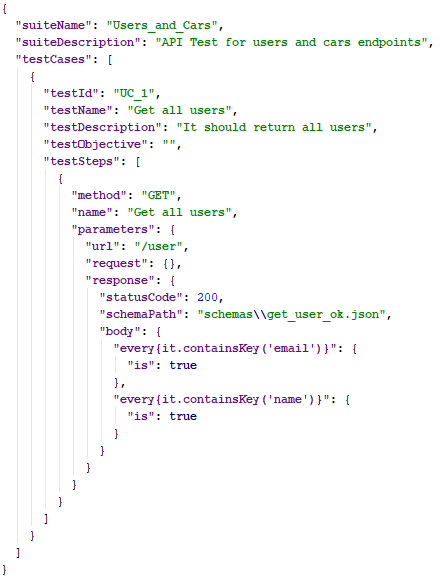
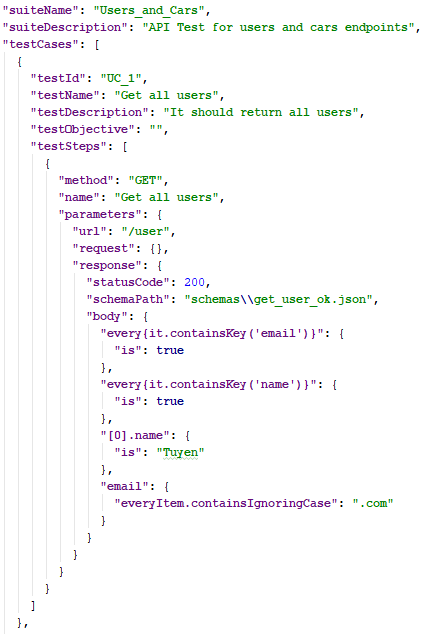
Update test example test cases

diff --git a/src/test/java/TestExecution/APIExecution.java b/src/test/java/TestExecution/APIExecution.java
@@ -3,6 +3,7 @@ package TestExecution;
 import TestEntity.TestStep;
 import Utils.HashMapHandler;
 import Utils.UtilityFunctions;
+import Utils.matcher_extension.CaseInsensitiveStringMatcher;
 import config.Config;
 import io.restassured.RestAssured;
 import io.restassured.filter.log.RequestLoggingFilter;
@@ -202,7 +203,8 @@ public class APIExecution {
                         // This auto find file from class path to below
                         // We can specify the directory by data\\api\\ + entry.getValue()
                         validatableRes.body(JsonSchemaValidator.matchesJsonSchemaInClasspath((String) entry.getValue()));
-                        passTexts.add("Ensure the response match with the schema at " + entry.getValue());                    } catch (AssertionError e) {
+                        passTexts.add("Ensure the response match with the schema at " + entry.getValue());
+                    } catch (AssertionError e) {
                         errors.add(e);
                     }
                     break;
@@ -214,7 +216,7 @@ public class APIExecution {
                             for (Object matcher : jsonMatchers.keySet()) {
                                 Matcher<?> refinedMatcher = buildMatcherPattern((String) matcher, jsonMatchers.get(matcher));
                                 validatableRes.body((String) fieldValue, refinedMatcher);
-                                passTexts.add("Ensure the field [" + fieldValue + "] - " + refinedMatcher.toString().replace("<","").replace(">","") + ".");
+                                passTexts.add("Ensure the field [" + fieldValue + "] - " + refinedMatcher.toString().replace("<", "").replace(">", "") + ".");
                             }
                         } catch (AssertionError e) {
                             errors.add(e);
@@ -232,8 +234,8 @@ public class APIExecution {
 
         // handle for serial number of matcher pattern
         matcherPattern = matcherPattern.indexOf("[") == 0 && matcherPattern.indexOf(']') > 0
-                ?   matcherPattern.substring(matcherPattern.indexOf(']') + 1).trim()
-                :   matcherPattern;
+                ? matcherPattern.substring(matcherPattern.indexOf(']') + 1).trim()
+                : matcherPattern;
         String[] funcParts = matcherPattern.split("\\.");
         if (valueMatcher instanceof Long) {
             int val = ((Long) valueMatcher).intValue();
@@ -262,8 +264,7 @@ public class APIExecution {
     private Matcher<?> createMatcher(String funcName, Object value) {
         switch (funcName) {
             case "containsIgnoringCase":
-                // Write extension for string
-                return null;
+                return CaseInsensitiveStringMatcher.containsIgnoringCase(value.toString());
             case "equalTo":
                 if (value instanceof Double) {
                     return Matchers.equalTo(Float.valueOf(value.toString()));
@@ -292,8 +293,7 @@ public class APIExecution {
                 }
                 return Matchers.greaterThanOrEqualTo((Long) value);
             case "greaterThanOrEqualToIgnoringCase":
-                // Write extension for string
-                return null;
+                return CaseInsensitiveStringMatcher.greaterThanOrEqualToIgnoringCase((String) value);
             case "hasKey":
                 return Matchers.hasKey(value);
             case "hasItem":
@@ -321,8 +321,7 @@ public class APIExecution {
                 }
                 return Matchers.lessThanOrEqualTo((Long) value);
             case "lessThanOrEqualToIgnoringCase":
-                // Write extension for string
-                return null;
+                return CaseInsensitiveStringMatcher.lessThanOrEqualToIgnoringCase((String) value);
             case "not":
                 return Matchers.not((Matcher<?>) value);
         }

diff --git a/src/test/java/Utils/matcher_extension/CaseInsensitiveStringMatcher.java b/src/test/java/Utils/matcher_extension/CaseInsensitiveStringMatcher.java
@@ -1,0 +1,50 @@
+package Utils.matcher_extension;
+
+import org.hamcrest.Description;
+import org.hamcrest.Factory;
+import org.hamcrest.Matcher;
+import org.hamcrest.TypeSafeMatcher;
+
+public class CaseInsensitiveStringMatcher extends TypeSafeMatcher<String> {
+
+    private final String expectedString;
+    private final String methodName;
+
+    private CaseInsensitiveStringMatcher(final String exString, final String method) {
+        methodName = method;
+        this.expectedString = exString;
+    }
+
+    @Override
+    protected boolean matchesSafely(final String actualString) {
+        switch (methodName) {
+            case "containsIgnoringCase":
+                return actualString.toLowerCase().contains(this.expectedString.toLowerCase());
+            case "greaterThanOrEqualToIgnoringCase":
+                return actualString.toLowerCase().compareToIgnoreCase(this.expectedString) >= 0;
+            case "lessThanOrEqualToIgnoringCase":
+                return actualString.toLowerCase().compareToIgnoreCase(this.expectedString) <= 0;
+        }
+        return false;
+    }
+
+    @Override
+    public void describeTo(final Description description) {
+        description.appendText("containing substring \"" + this.expectedString + "\"");
+    }
+
+    @Factory
+    public static Matcher<String> containsIgnoringCase(final String exString) {
+        return new CaseInsensitiveStringMatcher(exString, "containsIgnoringCase");
+    }
+
+    @Factory
+    public static Matcher<String> greaterThanOrEqualToIgnoringCase(final String exString) {
+        return new CaseInsensitiveStringMatcher(exString, "greaterThanOrEqualToIgnoringCase");
+    }
+
+    @Factory
+    public static Matcher<String> lessThanOrEqualToIgnoringCase(final String exString) {
+        return new CaseInsensitiveStringMatcher(exString, "lessThanOrEqualToIgnoringCase");
+    }
+}
